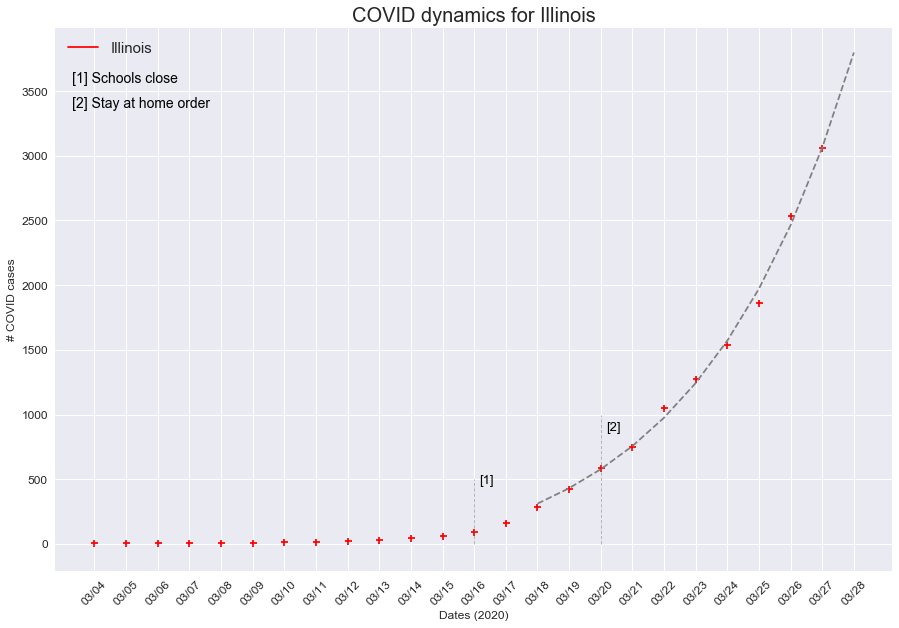
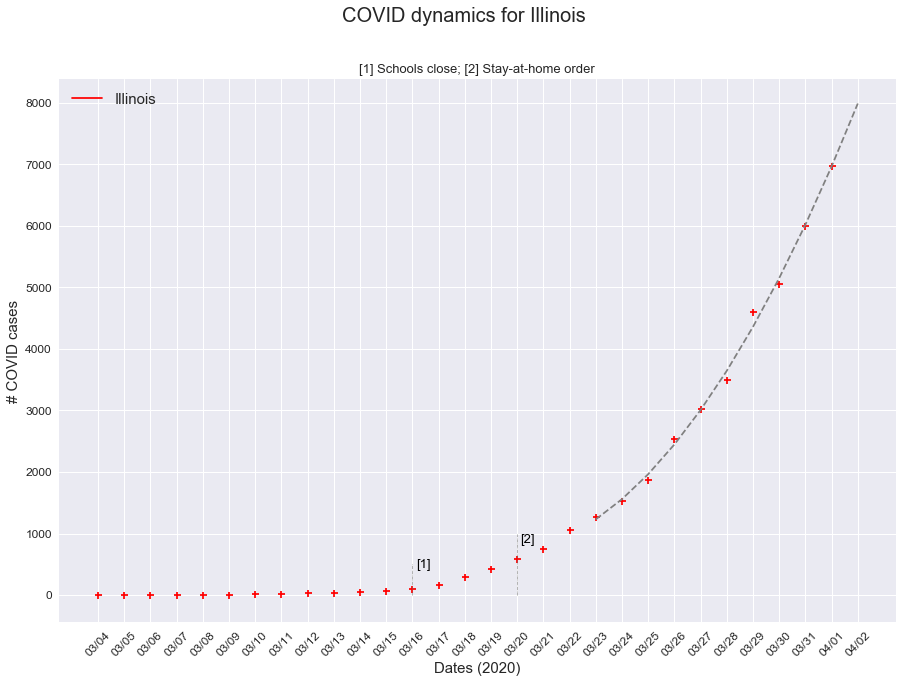
update

diff --git a/Illinois/README.md b/Illinois/README.md
@@ -18,7 +18,7 @@ Illinois
 
 ![](https://github.com/akonstodata/covid_state_county/blob/master/Illinois/results/IL_update.png)
 
-The best model for Illinois is the exponential model.  Prediction for number of total cases for 03/28 is 3798.
+The best model for Illinois is the quadratic model.  Prediction for number of total cases for 04/02 is 9641.
 
 Illinois counties: coming soon!
 ------------
